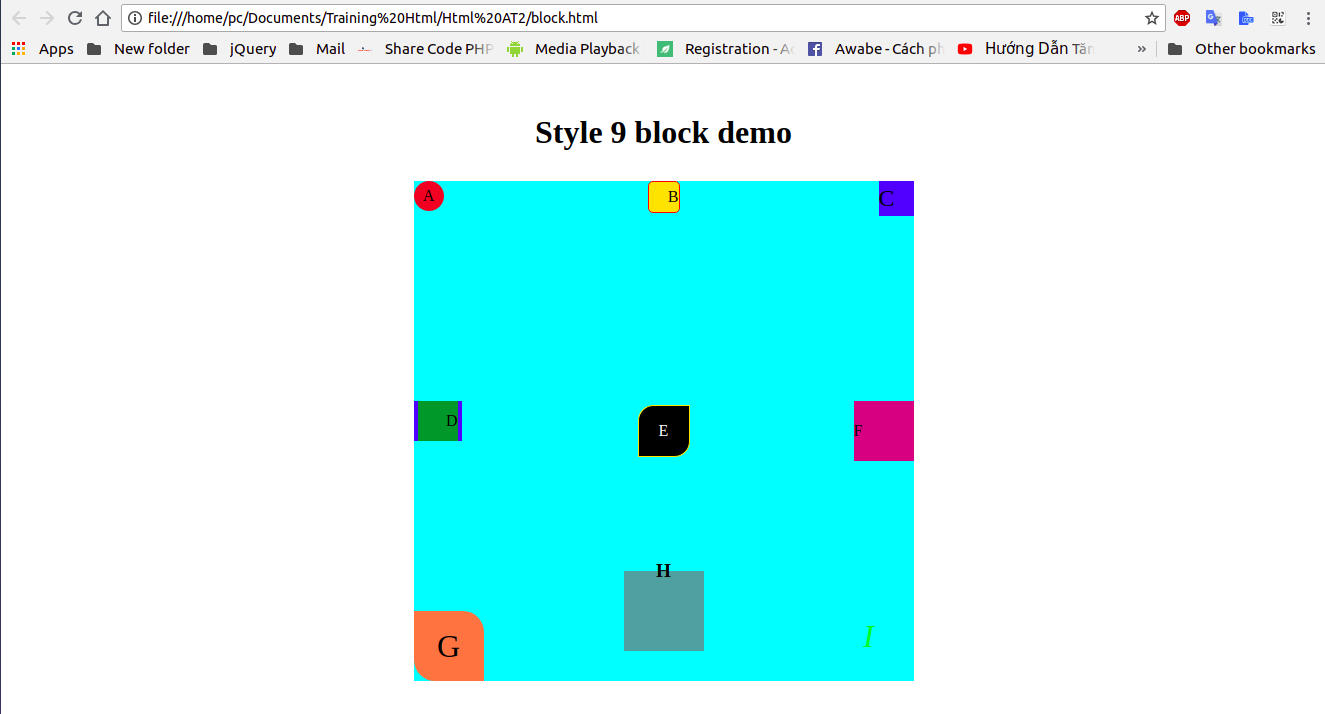
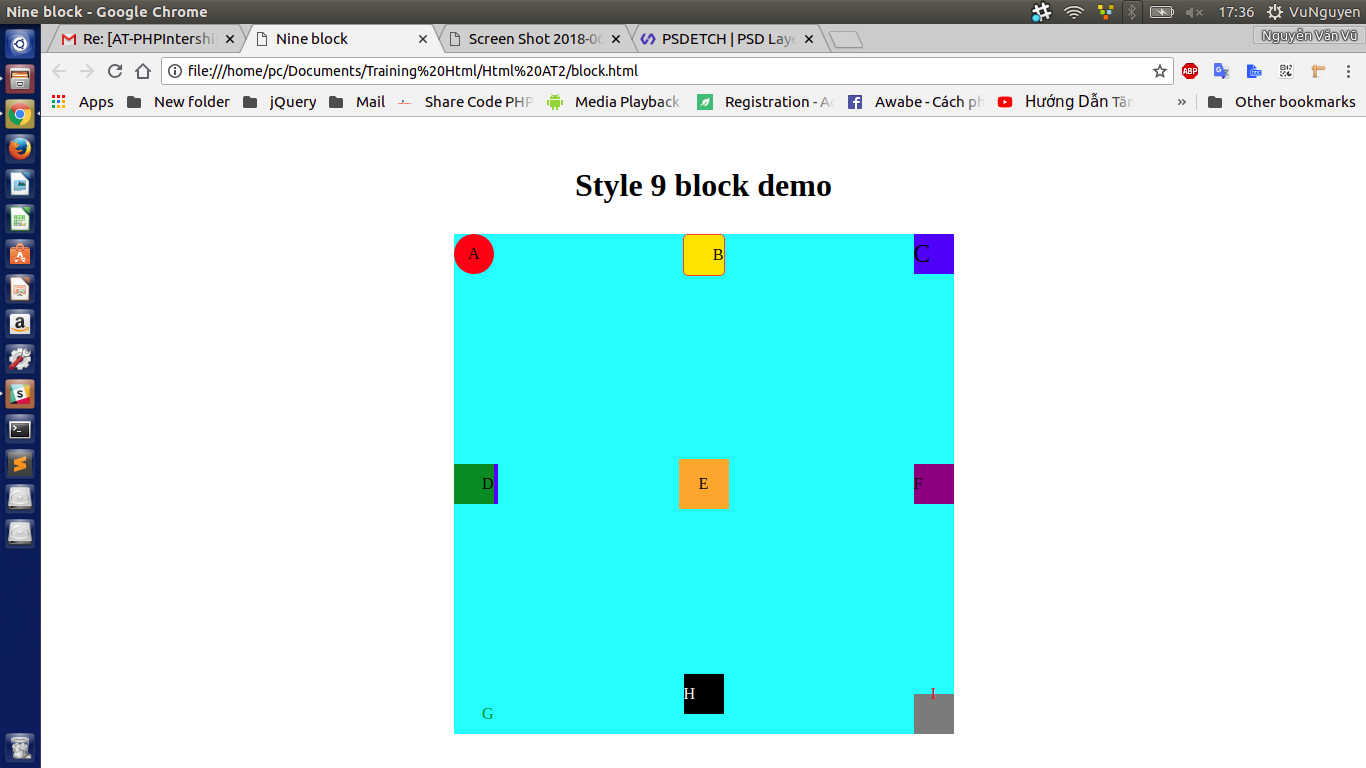
Fix file css

diff --git a/css-block-9/css/style.css b/css-block-9/css/style.css
@@ -5,11 +5,11 @@ body {
 
 h1 { 
   text-align: center;
-	margin-top: 50px;
+  margin-top: 50px;
 }
 .blockItems {
   position: relative;
-  background: #00FFFF;
+  background: #6cf8fc;
   margin:30px auto;
   max-width: 500px;
   height: 500px
@@ -19,103 +19,89 @@ h1 {
   text-transform: uppercase;
 }
 .item1 {
-  background: #E23737;
-  height: 30px;
-  width: 30px;
+  background: #ee4433;
+  height: 40px;
+  width: 40px;
   border-radius: 50%;
-  top: 0px;
-  left: 0px;
   text-align: center;
-  line-height: 30px;
+  line-height: 40px;
 }
 .item2 {
-  border: 1px solid red;
+  border: 1px solid #ed5737;
   background: #FFD700;
-  height: 30px;
-  width: 30px;
-  top: 0px;
+  height: 40px;
+  width: 40px;
   left: 50%;
   transform: translateX(-50%);
   border-radius:5px;
-  line-height: 30px;
+  line-height: 40px;
   text-align: right;
 }
 .item3 {
-  background: #0000FF;
-  height: 35px;
-  width: 35px;
-  top: 0px;
-  right: 0px;
-  line-height: 35px;
-  text-align: left;
-  font-size: x-large;
-}
-.item4 {
-  background: #228B22;
+  background: #2f64f5;
   height: 40px;
   width: 40px;
-  top: 220px;
-  left: 0px;
-  border-right: 4px solid #0000FF;
-  border-left: 4px solid #0000FF;
+  right: 0px;
+  line-height: 40px;
+  text-align: left;
+  font-size: 25px;
+}
+.item4 {
+  background: #3d801d;
+  height: 40px;
+  width: 40px;
+  top: 50%;
+  transform: translateY(-50%);
+  border-right: 4px solid #2f64f5;
   line-height: 40px;
   text-align: right;
 }
 .item5 {
-  background: #000000;
+  background: #f4a540;
   height: 50px;
   width: 50px;
   top: 50%;
   left: 50%;
   transform: translate(-50%,-50%);
-  border: 1px solid #FFD700;
-  border-top-left-radius: 30%;
-  border-bottom-right-radius: 30%;
   text-align: center;
   line-height: 50px;
-  color: white;
 }
 .item6 {
-  background: #C71585;
-  height: 60px;
-  width: 60px;
-  top: 220px;
+  background: #823b80;
+  height: 40px;
+  width: 40px;
+  top: 50%;
+  transform: translateY(-50%);
   right: 0px;
-  line-height: 60px;
+  line-height: 40px;
 }
 .item7 {
-  background: #FF7F50;
-  height: 70px;
-  width: 70px;
+  background: #6cf8fc;
+  height: 40px;
+  width: 40px;
   bottom: 0px;
-  left: 0px;
-  border-top-right-radius: 30%;
-  border-bottom-left-radius: 30%;
-  text-align: center;
-  line-height: 70px;
-  font-size: xx-large;
+  text-align: right;
+  line-height: 40px;
+  color: #3d801d;
 }
 .item8 {
-  background: #5F9EA0;
-  height: 80px;
-  width: 80px;
-  bottom: 30px;
+  background: #000000;
+  height: 40px;
+  width: 40px;
+  bottom: 20px;
   left: 50%;
   transform: translateX(-50%);
-  text-align: center;
-  line-height: 0px;
-  font-size: larger;
-  font-weight: bold;
-  border-top: 40px solid #00FFFF;
+  text-align: left;
+  line-height: 40px;
+  color: #ffffff;
 }
 .item9 {
-  height: 90px;
-  width: 90px;
+  background: #7c7c7c;
+  height: 40px;
+  width: 40px;
   bottom: 0px;
   right: 0px;
   text-align: center;
-  line-height: 90px;
-  font-size: xx-large;
-  font-style: italic;
-  color: #00FF00; 
+  line-height: 0px;
+  color: #ee4433;
 }

diff --git a/css-block-9/block.html b/css-block-9/block.html
@@ -1,21 +1,21 @@
 <!DOCTYPE html>
 <html>
 <head>
-	<title>Nine block</title>
-	<link rel="stylesheet" href="css/style.css" />
+  <title>Nine block</title>
+  <link rel="stylesheet" href="css/style.css" />
 </head>
 <body>
-	<h1>Style 9 block demo</h1>
-	<div class="blockItems">
-		<div class="item1 blockItem">a</div>
-		<div class="item2 blockItem">b</div>
-		<div class="item3 blockItem">c</div>
-		<div class="item4 blockItem">d</div>
-		<div class="item5 blockItem">e</div>
-		<div class="item6 blockItem">f</div>
-		<div class="item7 blockItem">g</div>
-		<div class="item8 blockItem">h</div>
-		<div class="item9 blockItem">i</div>		
-	</div>
+  <h1>Style 9 block demo</h1>
+  <div class="blockItems">
+	<div class="item1 blockItem">a</div>
+	<div class="item2 blockItem">b</div>
+	<div class="item3 blockItem">c</div>
+	<div class="item4 blockItem">d</div>
+	<div class="item5 blockItem">e</div>
+	<div class="item6 blockItem">f</div>
+	<div class="item7 blockItem">g</div>
+	<div class="item8 blockItem">h</div>
+	<div class="item9 blockItem">i</div>		
+  </div>
 </body>
-</html> 
+</html>
